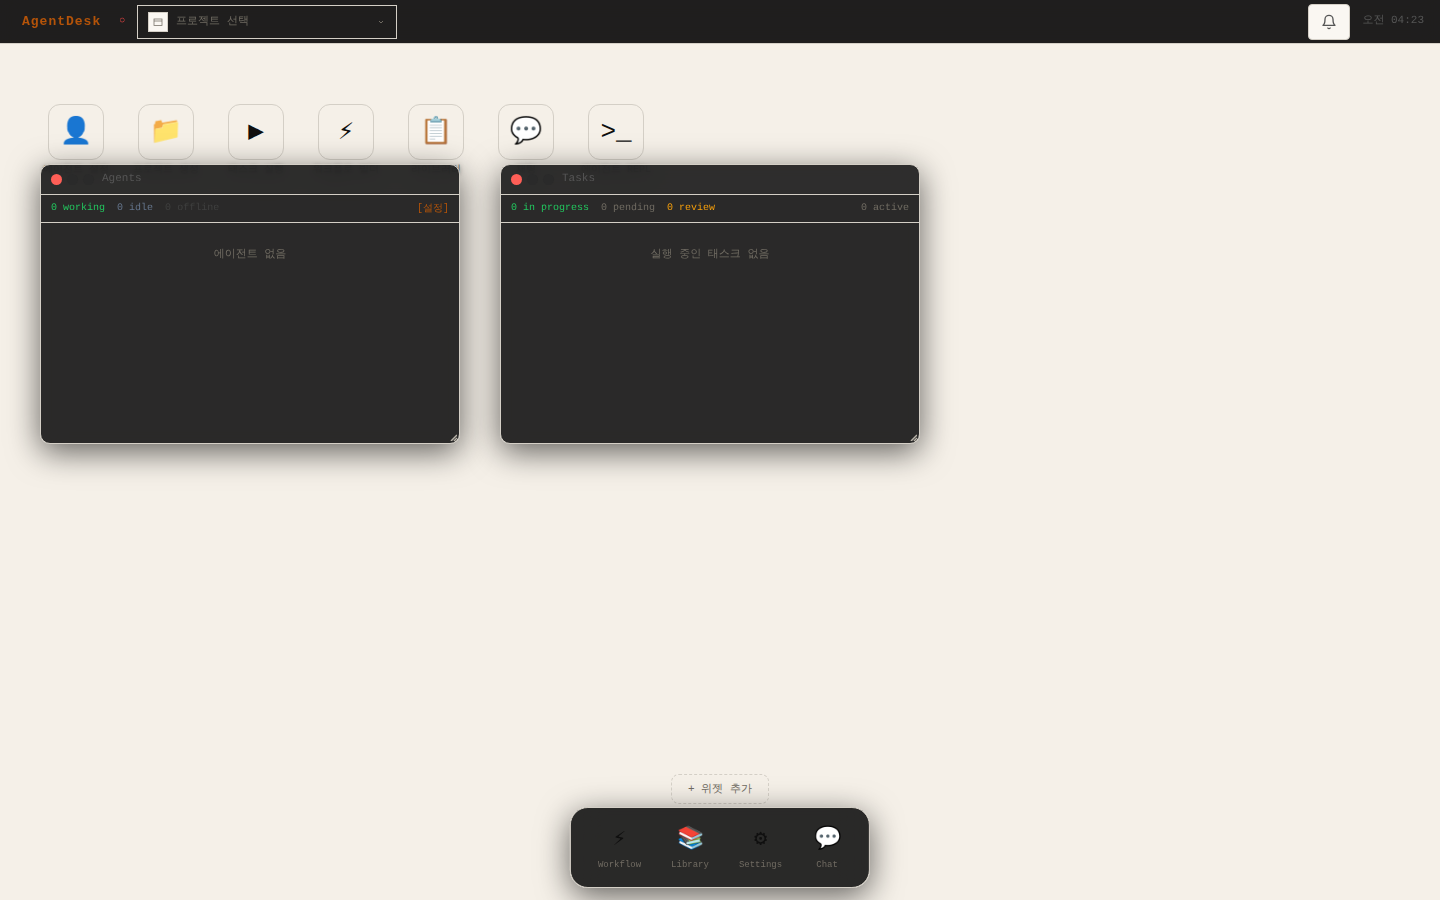
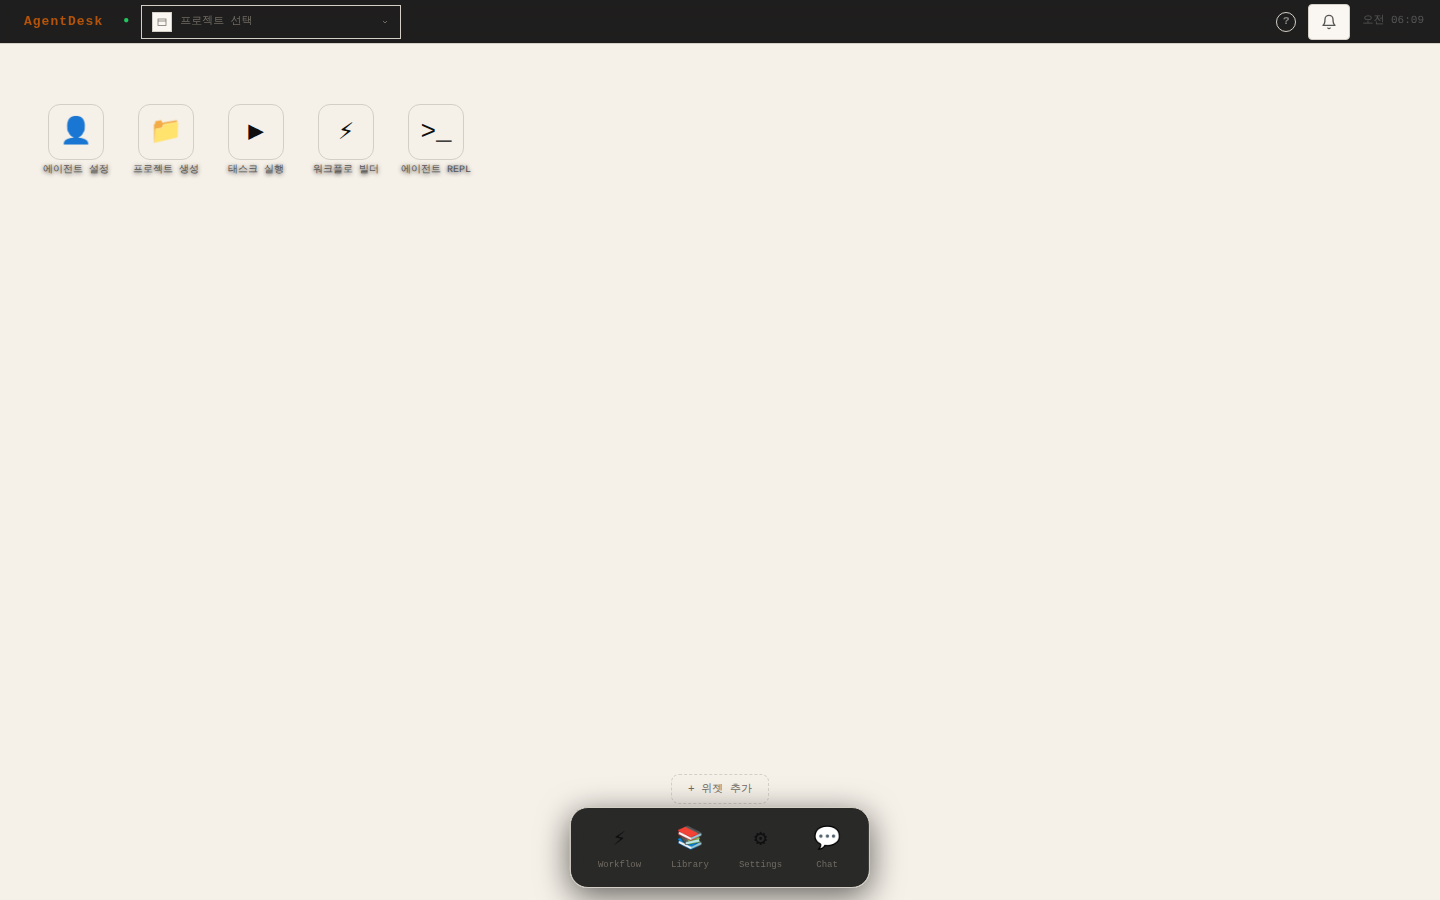
fix: use CSS variables in all desktop menus and guide panel
Replace hardcoded dark RGBA colors with CSS variable tokens so all
UI elements adapt correctly to the light (warm beige) theme:

- UserGuidePanel: panel-bg, sidebar-bg, text vars, border, kbd bg
- MenuBar app menu: panel-bg, border, text-primary/muted, accent-glow
- Desktop context menus (both): panel-bg, border, glass-shadow,
  text-primary/muted, danger vars, accent-glow hover

Also add updated screenshots showing the harmonised light-theme look.

https://claude.ai/code/session_01SSG1EkcMjdyMt5FqBYPhTX

Changed region(s): [[0.0, 0.1244, 0.6562, 0.5289], [0.0938, 0.0, 0.1562, 0.0311], [0.0, 0.0, 0.0625, 0.0311]]

diff --git a/src/components/desktop/UserGuidePanel.tsx b/src/components/desktop/UserGuidePanel.tsx
@@ -131,7 +131,7 @@ const CHAPTERS: Chapter[] = [
         body: "",
       },
       {
-        heading: "g + 키 — 앱 창 토글 (vim 스타일)",
+        heading: "g + 키 — 앱 창 토글 (VIM 스타일)",
         keys: [
           { keys: ["g", "w"], desc: "Workflow 창 토글" },
           { keys: ["g", "l"], desc: "Library 창 토글" },
@@ -194,15 +194,13 @@ interface UserGuidePanelProps {
 }
 
 const mono = "var(--th-font-mono)";
-const border = "var(--th-border)";
-const accent = "var(--th-accent)";
 
 const kbdStyle: React.CSSProperties = {
   fontFamily: mono,
   fontSize: 10,
   color: "var(--th-text-secondary)",
-  background: "var(--th-bg-base)",
-  border: `1px solid ${border}`,
+  background: "var(--th-bg-elevated)",
+  border: "1px solid var(--th-border)",
   borderRadius: 4,
   padding: "2px 6px",
   boxShadow: "0 1px 0 var(--th-border)",
@@ -237,7 +235,7 @@ export default function UserGuidePanel({ open, onClose, initialChapter }: UserGu
             position: "fixed",
             inset: 0,
             zIndex: 949,
-            background: "rgba(0,0,0,0.3)",
+            background: "var(--th-modal-overlay)",
           }}
         />
       )}
@@ -255,10 +253,10 @@ export default function UserGuidePanel({ open, onClose, initialChapter }: UserGu
           zIndex: 950,
           display: "flex",
           flexDirection: "column",
-          background: "rgba(14,14,18,0.97)",
+          background: "var(--th-panel-bg)",
           backdropFilter: "blur(20px)",
           WebkitBackdropFilter: "blur(20px)",
-          borderLeft: `1px solid ${border}`,
+          borderLeft: "1px solid var(--th-border)",
           transform: open ? "translateX(0)" : "translateX(480px)",
           transition: "transform 0.28s cubic-bezier(0.32,0,0.15,1)",
           fontFamily: mono,
@@ -272,8 +270,9 @@ export default function UserGuidePanel({ open, onClose, initialChapter }: UserGu
             gap: 10,
             padding: "0 16px",
             height: 44,
-            borderBottom: `1px solid ${border}`,
+            borderBottom: "1px solid var(--th-border)",
             flexShrink: 0,
+            background: "var(--th-bg-header)",
           }}
         >
           <button
@@ -293,7 +292,7 @@ export default function UserGuidePanel({ open, onClose, initialChapter }: UserGu
           <span style={{ fontSize: 12, fontWeight: 700, color: "var(--th-text-heading)", flex: 1 }}>
             AgentDesk 가이드
           </span>
-          <span style={{ fontSize: 10, color: "rgba(255,255,255,0.3)" }}>Esc</span>
+          <span style={{ fontSize: 10, color: "var(--th-text-muted)", fontFamily: mono }}>Esc</span>
         </div>
 
         {/* Body — 2단 */}
@@ -303,9 +302,10 @@ export default function UserGuidePanel({ open, onClose, initialChapter }: UserGu
             style={{
               width: 160,
               flexShrink: 0,
-              borderRight: `1px solid ${border}`,
+              borderRight: "1px solid var(--th-border)",
               overflowY: "auto",
               padding: "8px 0",
+              background: "var(--th-bg-sidebar)",
             }}
           >
             {CHAPTERS.map((c) => {
@@ -321,21 +321,21 @@ export default function UserGuidePanel({ open, onClose, initialChapter }: UserGu
                     gap: 8,
                     width: "100%",
                     padding: "8px 14px",
-                    background: active ? "rgba(245,158,11,0.12)" : "none",
+                    background: active ? "var(--th-accent-glow)" : "transparent",
                     border: "none",
-                    borderRight: active ? `2px solid ${accent}` : "2px solid transparent",
-                    color: active ? accent : "rgba(255,255,255,0.65)",
+                    borderRight: active ? "2px solid var(--th-accent)" : "2px solid transparent",
+                    color: active ? "var(--th-accent)" : "var(--th-text-secondary)",
                     fontFamily: mono,
                     fontSize: 12,
                     cursor: "pointer",
                     textAlign: "left",
-                    transition: "background 0.15s",
+                    transition: "background 0.15s, color 0.15s",
                   }}
                   onMouseEnter={(e) => {
-                    if (!active) (e.currentTarget as HTMLButtonElement).style.background = "rgba(255,255,255,0.05)";
+                    if (!active) (e.currentTarget as HTMLButtonElement).style.background = "var(--th-bg-surface-hover)";
                   }}
                   onMouseLeave={(e) => {
-                    if (!active) (e.currentTarget as HTMLButtonElement).style.background = "none";
+                    if (!active) (e.currentTarget as HTMLButtonElement).style.background = "transparent";
                   }}
                 >
                   <span>{c.emoji}</span>
@@ -375,7 +375,7 @@ export default function UserGuidePanel({ open, onClose, initialChapter }: UserGu
                     fontWeight: 700,
                     letterSpacing: "0.08em",
                     textTransform: "uppercase",
-                    color: "rgba(255,255,255,0.4)",
+                    color: "var(--th-text-muted)",
                     fontFamily: mono,
                   }}
                 >
@@ -394,7 +394,7 @@ export default function UserGuidePanel({ open, onClose, initialChapter }: UserGu
                           justifyContent: "space-between",
                           padding: "5px 0",
                           gap: 12,
-                          borderBottom: `1px solid rgba(255,255,255,0.05)`,
+                          borderBottom: "1px solid var(--th-border)",
                         }}
                       >
                         <span style={{ fontSize: 11, color: "var(--th-text-secondary)", fontFamily: mono }}>
@@ -405,7 +405,7 @@ export default function UserGuidePanel({ open, onClose, initialChapter }: UserGu
                             <span key={i}>
                               <kbd style={kbdStyle}>{k}</kbd>
                               {i < keys.length - 1 && (
-                                <span style={{ fontFamily: mono, fontSize: 10, color: "rgba(255,255,255,0.3)", margin: "0 2px" }}>
+                                <span style={{ fontFamily: mono, fontSize: 10, color: "var(--th-text-muted)", margin: "0 2px" }}>
                                   +
                                 </span>
                               )}
@@ -424,7 +424,7 @@ export default function UserGuidePanel({ open, onClose, initialChapter }: UserGu
                       margin: 0,
                       fontSize: 12,
                       lineHeight: 1.75,
-                      color: "rgba(255,255,255,0.7)",
+                      color: "var(--th-text-secondary)",
                       fontFamily: mono,
                       whiteSpace: "pre-line",
                     }}

diff --git a/src/components/desktop/MenuBar.tsx b/src/components/desktop/MenuBar.tsx
@@ -67,7 +67,7 @@ export default function MenuBar({
     border: "none",
     fontFamily: mono,
     fontSize: 12,
-    color: "rgba(255,255,255,0.82)",
+    color: "var(--th-text-primary)",
     cursor: "pointer",
     textAlign: "left",
     gap: 24,
@@ -75,7 +75,7 @@ export default function MenuBar({
   };
 
   const menuSepStyle: React.CSSProperties = {
-    borderTop: "1px solid rgba(255,255,255,0.07)",
+    borderTop: "1px solid var(--th-border)",
     margin: "4px 0",
   };
 
@@ -131,18 +131,18 @@ export default function MenuBar({
               top: "calc(100% + 6px)",
               left: 0,
               minWidth: 220,
-              background: "rgba(20,20,24,0.97)",
+              background: "var(--th-panel-bg)",
               backdropFilter: "blur(20px)",
               WebkitBackdropFilter: "blur(20px)",
-              border: "1px solid rgba(255,255,255,0.10)",
+              border: "1px solid var(--th-border)",
               borderRadius: 10,
-              boxShadow: "0 16px 48px rgba(0,0,0,0.6)",
+              boxShadow: "0 16px 48px var(--th-glass-shadow)",
               padding: "4px 0",
               zIndex: 2000,
             }}
           >
             {/* About */}
-            <div style={{ padding: "7px 14px 4px", fontFamily: mono, fontSize: 11, color: "rgba(255,255,255,0.4)" }}>
+            <div style={{ padding: "7px 14px 4px", fontFamily: mono, fontSize: 11, color: "var(--th-text-muted)" }}>
               AgentDesk v0.9
             </div>
             <div style={menuSepStyle} />
@@ -151,7 +151,7 @@ export default function MenuBar({
             <button
               style={menuItemStyle}
               onClick={() => menuAction(onOpenWallpaperPicker)}
-              onMouseEnter={(e) => { (e.currentTarget as HTMLButtonElement).style.background = "rgba(245,158,11,0.12)"; }}
+              onMouseEnter={(e) => { (e.currentTarget as HTMLButtonElement).style.background = "var(--th-accent-glow)"; }}
               onMouseLeave={(e) => { (e.currentTarget as HTMLButtonElement).style.background = "none"; }}
             >
               <span>배경화면 변경...</span>
@@ -161,7 +161,7 @@ export default function MenuBar({
             <button
               style={menuItemStyle}
               onClick={() => menuAction(onOpenWidgetPicker)}
-              onMouseEnter={(e) => { (e.currentTarget as HTMLButtonElement).style.background = "rgba(245,158,11,0.12)"; }}
+              onMouseEnter={(e) => { (e.currentTarget as HTMLButtonElement).style.background = "var(--th-accent-glow)"; }}
               onMouseLeave={(e) => { (e.currentTarget as HTMLButtonElement).style.background = "none"; }}
             >
               <span>위젯 추가...</span>
@@ -173,7 +173,7 @@ export default function MenuBar({
             <button
               style={menuItemStyle}
               onClick={() => menuAction(onOpenUserGuide)}
-              onMouseEnter={(e) => { (e.currentTarget as HTMLButtonElement).style.background = "rgba(245,158,11,0.12)"; }}
+              onMouseEnter={(e) => { (e.currentTarget as HTMLButtonElement).style.background = "var(--th-accent-glow)"; }}
               onMouseLeave={(e) => { (e.currentTarget as HTMLButtonElement).style.background = "none"; }}
             >
               <span>📖 유저 가이드</span>
@@ -183,11 +183,11 @@ export default function MenuBar({
             <button
               style={menuItemStyle}
               onClick={() => menuAction(onOpenMissionControl)}
-              onMouseEnter={(e) => { (e.currentTarget as HTMLButtonElement).style.background = "rgba(245,158,11,0.12)"; }}
+              onMouseEnter={(e) => { (e.currentTarget as HTMLButtonElement).style.background = "var(--th-accent-glow)"; }}
               onMouseLeave={(e) => { (e.currentTarget as HTMLButtonElement).style.background = "none"; }}
             >
               <span>Mission Control</span>
-              <span style={{ fontSize: 10, color: "rgba(255,255,255,0.35)" }}>Ctrl ↑</span>
+              <span style={{ fontSize: 10, color: "var(--th-text-muted)" }}>Ctrl ↑</span>
             </button>
           </div>
         )}

diff --git a/src/components/desktop/Desktop.tsx b/src/components/desktop/Desktop.tsx
@@ -442,17 +442,17 @@ export default function Desktop({
             left: projectCtxMenu.x,
             top: projectCtxMenu.y,
             zIndex: 2000,
-            background: "rgba(22,22,26,0.95)",
+            background: "var(--th-panel-bg)",
             backdropFilter: "blur(20px)",
-            border: "1px solid rgba(255,255,255,0.10)",
+            border: "1px solid var(--th-border)",
             borderRadius: 10,
             padding: "4px 0",
             minWidth: 180,
-            boxShadow: "0 16px 40px rgba(0,0,0,0.6), inset 0 1px 0 rgba(255,255,255,0.06)",
+            boxShadow: "0 16px 40px var(--th-glass-shadow)",
           }}
           onClick={(e) => e.stopPropagation()}
         >
-          <div style={{ padding: "6px 14px 6px", fontFamily: "var(--th-font-mono)", fontSize: 10, color: "rgba(255,255,255,0.35)", borderBottom: "1px solid rgba(255,255,255,0.07)", marginBottom: 4 }}>
+          <div style={{ padding: "6px 14px 6px", fontFamily: "var(--th-font-mono)", fontSize: 10, color: "var(--th-text-muted)", borderBottom: "1px solid var(--th-border)", marginBottom: 4 }}>
             📁 {projectCtxMenu.projectName}
           </div>
           {[
@@ -482,18 +482,18 @@ export default function Desktop({
                 width: "100%", padding: "7px 14px",
                 background: "none", border: "none", cursor: "pointer",
                 fontFamily: "var(--th-font-mono)", fontSize: 12,
-                color: danger ? "#f87171" : "rgba(255,255,255,0.85)",
+                color: danger ? "var(--th-danger-text)" : "var(--th-text-primary)",
                 textAlign: "left",
                 justifyContent: "space-between",
               }}
-              onMouseEnter={(e) => { (e.currentTarget as HTMLButtonElement).style.background = danger ? "rgba(248,113,113,0.12)" : "rgba(139,92,246,0.18)"; }}
+              onMouseEnter={(e) => { (e.currentTarget as HTMLButtonElement).style.background = danger ? "var(--th-danger-bg)" : "var(--th-accent-glow)"; }}
               onMouseLeave={(e) => { (e.currentTarget as HTMLButtonElement).style.background = "none"; }}
             >
               <span style={{ display: "flex", alignItems: "center", gap: 8 }}>
                 <span style={{ fontSize: 13 }}>{icon}</span>
                 {label}
               </span>
-              {shortcut && <span style={{ fontSize: 10, color: "rgba(255,255,255,0.3)" }}>{shortcut}</span>}
+              {shortcut && <span style={{ fontSize: 10, color: "var(--th-text-muted)" }}>{shortcut}</span>}
             </button>
           ))}
         </div>
@@ -508,13 +508,13 @@ export default function Desktop({
             left: ctxMenu.x,
             top: ctxMenu.y,
             zIndex: 2000,
-            background: "rgba(22,22,26,0.95)",
+            background: "var(--th-panel-bg)",
             backdropFilter: "blur(20px)",
-            border: "1px solid rgba(255,255,255,0.10)",
+            border: "1px solid var(--th-border)",
             borderRadius: 10,
             padding: "4px 0",
             minWidth: 180,
-            boxShadow: "0 16px 40px rgba(0,0,0,0.6), inset 0 1px 0 rgba(255,255,255,0.06)",
+            boxShadow: "0 16px 40px var(--th-glass-shadow)",
           }}
           onClick={(e) => e.stopPropagation()}
         >
@@ -536,10 +536,10 @@ export default function Desktop({
                 cursor: "pointer",
                 fontFamily: "var(--th-font-mono)",
                 fontSize: 12,
-                color: "rgba(255,255,255,0.85)",
+                color: "var(--th-text-primary)",
                 textAlign: "left",
               }}
-              onMouseEnter={(e) => { (e.currentTarget as HTMLButtonElement).style.background = "rgba(139,92,246,0.18)"; }}
+              onMouseEnter={(e) => { (e.currentTarget as HTMLButtonElement).style.background = "var(--th-accent-glow)"; }}
               onMouseLeave={(e) => { (e.currentTarget as HTMLButtonElement).style.background = "none"; }}
             >
               <span style={{ fontSize: 14 }}>{icon}</span>
